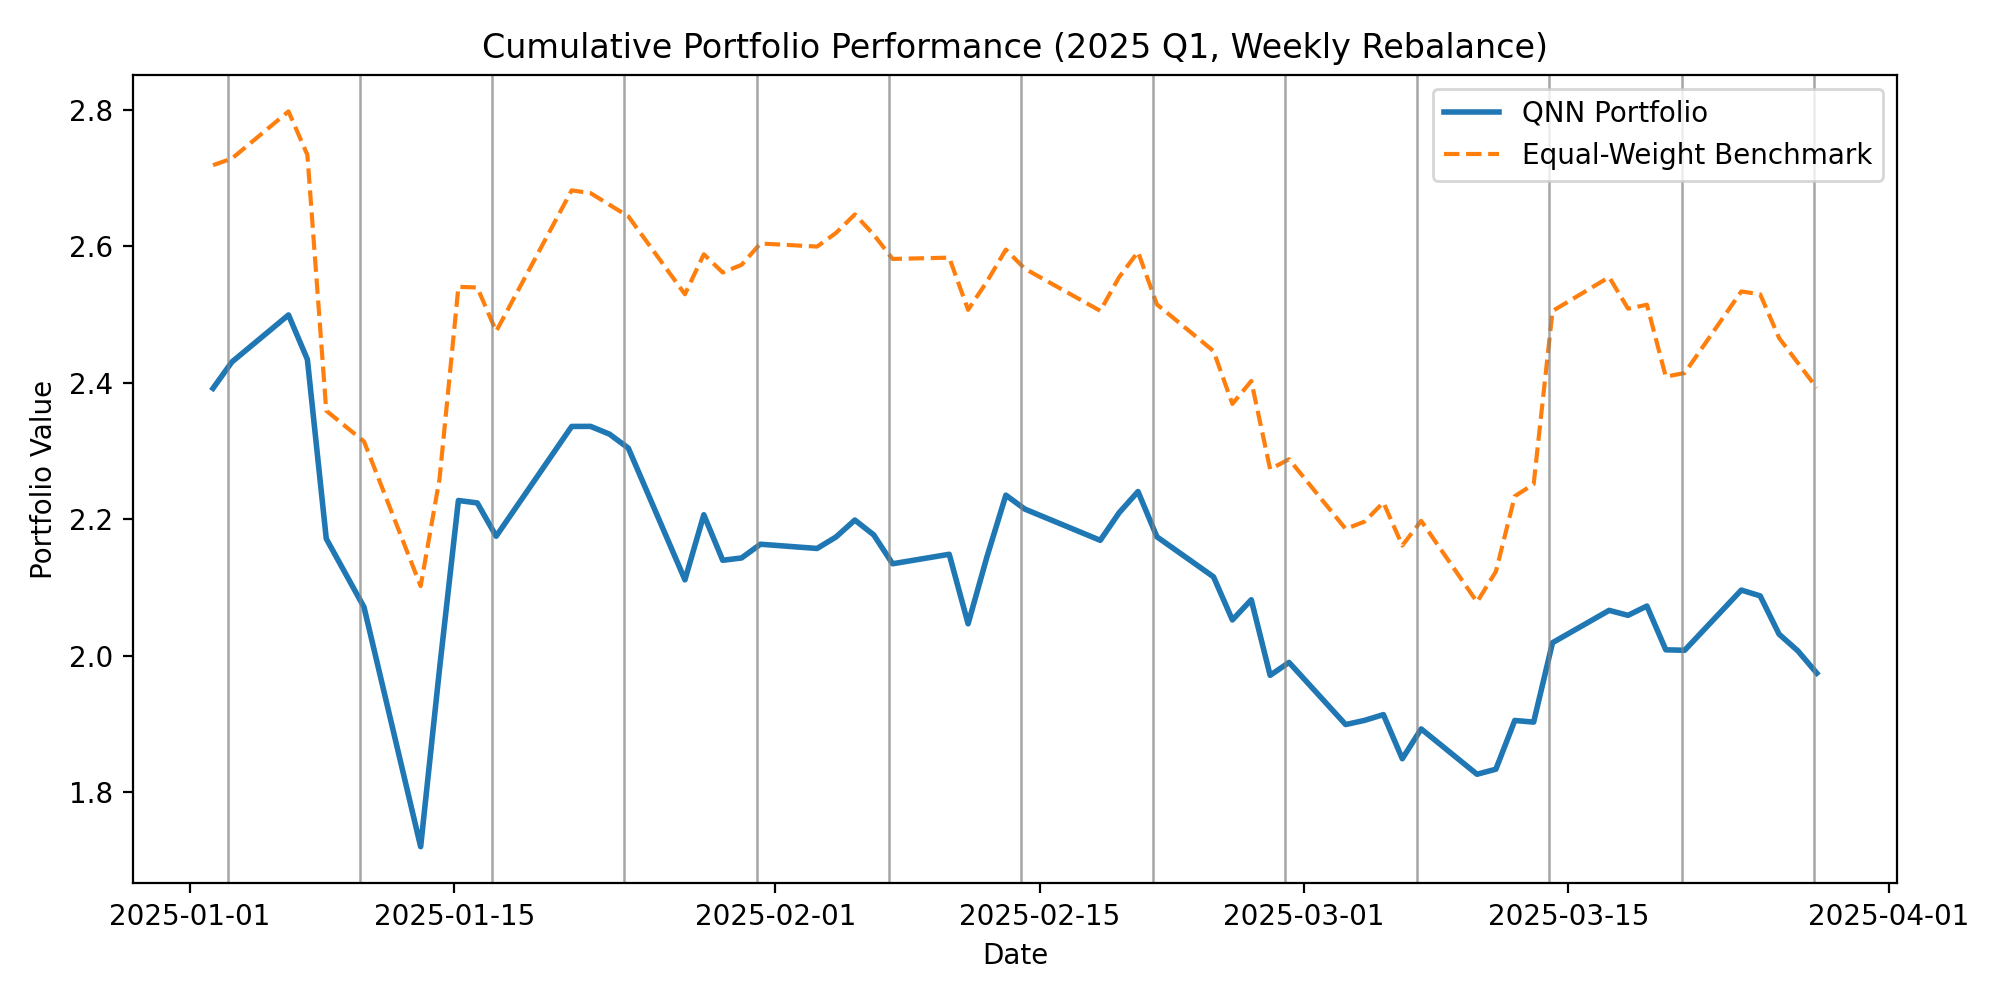
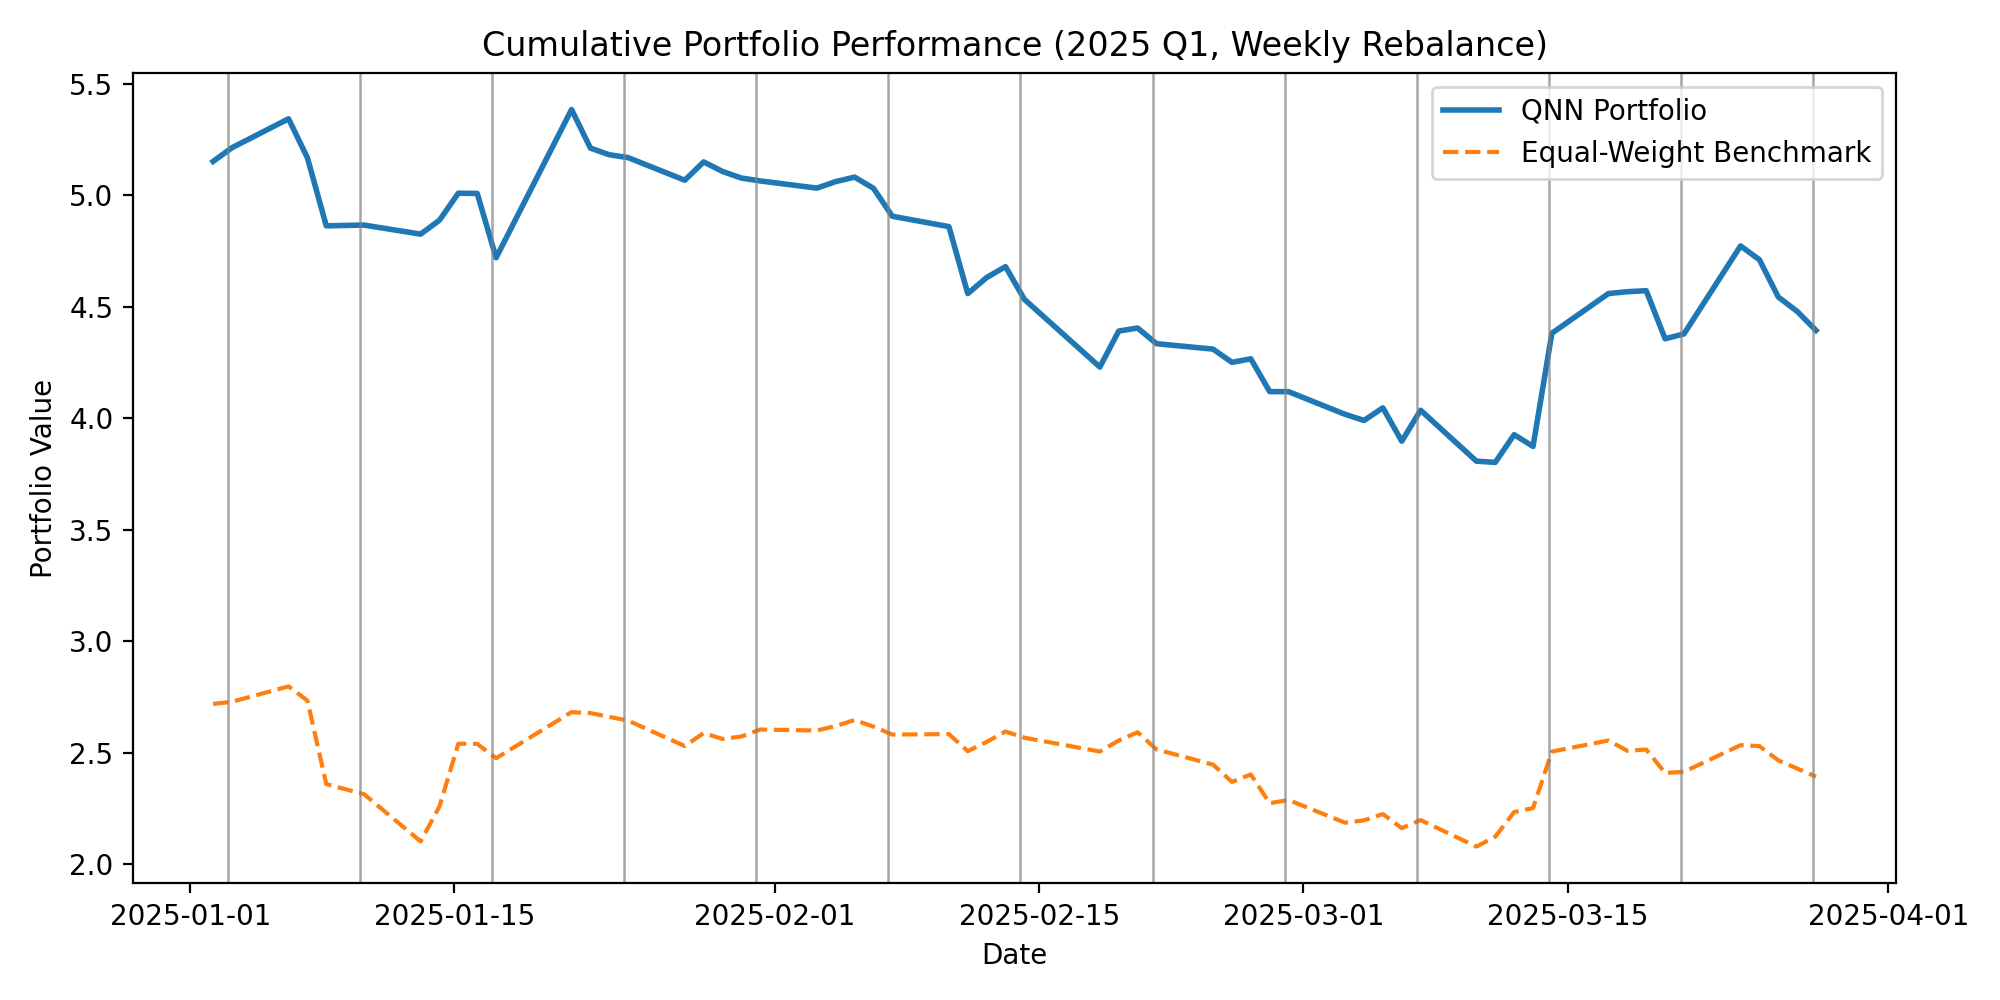
New charts

diff --git a/Optimizer/backtest.py b/Optimizer/backtest.py
@@ -31,7 +31,7 @@ weekly_ends = log_ret_daily.resample("W-FRI").last().index
 # ============================================================
 # Rebuild ALL covariance matrices - from predictions
 # ============================================================
-cov_preds = np.load("Optimizer/prediction data/qnn_cov_angles_hybrid_rxrz_predictions.npz") 
+cov_preds = np.load("Optimizer/prediction data/qnn_cov_pca_hybrid_rxrz_predictions.npz") 
 
 # Shape: (T, n_assets*(n_assets+1)//2)
 Y_cov = cov_preds["Y_pred_test"]
